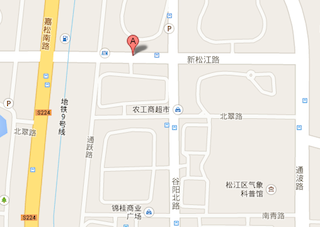
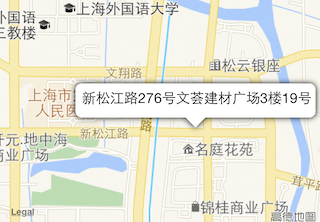
updated map.

diff --git a/GraceRoad/Views/GRIntroductView.m b/GraceRoad/Views/GRIntroductView.m
@@ -6,6 +6,8 @@
 //  Copyright (c) 2013年 Mac003. All rights reserved.
 //
 
+#define GRHasMap 0
+
 #import "GRIntroductView.h"
 #import "GRMapAnnotation.h"
 #import "Reachability.h"
@@ -14,10 +16,13 @@
 #import "GRDataService.h"
 #import "GRViewService.h"
 
+#if GRHasMap
+#import "CallOutAnnotationVifew.h"
+#import "JingDianMapCell.h"
+#endif
+
 #import <MessageUI/MessageUI.h>
 #import <MapKit/MapKit.h>
-
-#define GRHasMap 0
 
 @interface GRIntroductView ()<UITableViewDataSource, UITableViewDelegate, MKMapViewDelegate>
 {
@@ -76,7 +81,7 @@
         rect.origin.x = 0;
         rect.origin.y = 0;
         rect.size.width = frame.size.width;
-        rect.size.height = 227;
+        rect.size.height = 222;
         
         _placeHolderImageView = [[UIImageView alloc] initWithFrame: rect];
         [_placeHolderImageView setImage: [UIImage imageNamed: @"GRMapPlaceHolder"]];
@@ -136,7 +141,7 @@
         _annotation = [[GRMapAnnotation alloc] init];
         
         [_annotation setCoordinate: coordinate];
-        [_annotation setTitle: @"新松江路276号文荟建材广场"];
+        [_annotation setTitle: @"新松江路276号文荟建材广场3楼19号"];
     }
     
     [_mapView addAnnotation: _annotation];
@@ -214,7 +219,7 @@ viewForHeaderInSection: (NSInteger)section
     {
         case 0:
         {
-            return 4;
+            return 5;
         }
         case 1:
         {
@@ -258,10 +263,15 @@ viewForHeaderInSection: (NSInteger)section
                 }
                 case 2:
                 {
-                    [[cell textLabel] setText: @"第三场礼拜    13:30-15:00"];
+                    [[cell textLabel] setText: @"第三场礼拜    11:00-12:00（韩语）"];
                     break;
                 }
                 case 3:
+                {
+                    [[cell textLabel] setText: @"青年礼拜        13:30-15:00"];
+                    break;
+                }
+                case 4:
                 {
                     [[cell textLabel] setText: @"成人主日学    11:00-12:00"];
                     break;
@@ -324,7 +334,7 @@ heightForRowAtIndexPath: (NSIndexPath *)indexPath
         }
         case 2:
         {
-            return 240;
+            return [_placeHolderImageView bounds].size.height;
         }
         default:
         {
@@ -369,17 +379,32 @@ didSelectRowAtIndexPath: (NSIndexPath *)indexPath
     }
 }
 
+#if GRHasMap
 - (MKAnnotationView *)mapView: (MKMapView *)mapView
             viewForAnnotation: (id <MKAnnotation>)annotation
 {
-    MKPinAnnotationView *annView=[[[MKPinAnnotationView alloc] initWithAnnotation: annotation
-                                                                  reuseIdentifier: @"pin"] autorelease];
-    annView.pinColor = MKPinAnnotationColorGreen;
-    [annView setEnabled:YES];
-    [annView setCanShowCallout:YES];
-    
-    return annView;
+    CallOutAnnotationVifew *annotationView = (CallOutAnnotationVifew *)[mapView dequeueReusableAnnotationViewWithIdentifier:@"CalloutView"];
+    if (!annotationView)
+    {
+        annotationView = [[[CallOutAnnotationVifew alloc] initWithAnnotation:annotation reuseIdentifier:@"CalloutView"] autorelease];
+        JingDianMapCell  *cell = [[[NSBundle mainBundle] loadNibNamed:@"JingDianMapCell" owner:self options:nil] objectAtIndex:0];
+        [annotationView.contentView addSubview:cell];
+        
+    }
+    return annotationView;
+
+//    MKPinAnnotationView *annView=[[[MKPinAnnotationView alloc] initWithAnnotation: annotation
+//                                                                  reuseIdentifier: @"pin"] autorelease];
+//    annView.pinColor = MKPinAnnotationColorGreen;
+//
+//    [annView setBackgroundColor: [UIColor whiteColor]];
+//    [annView setEnabled:YES];
+//    [annView setCanShowCallout:YES];
+//    
+//    return annView;
 
 }
+
+#endif
 
 @end

diff --git a/Library/Map/CallOutAnnotationVifew.m b/Library/Map/CallOutAnnotationVifew.m
@@ -1,0 +1,90 @@
+//
+//  CallOutAnnotationVifew.m
+//  IYLM
+//
+//  Created by Jian-Ye on 12-11-8.
+//  Copyright (c) 2012年 Jian-Ye. All rights reserved.
+//
+
+#import "CallOutAnnotationVifew.h"
+#import <QuartzCore/QuartzCore.h>
+
+
+#define  Arror_height 10
+
+@interface CallOutAnnotationVifew ()
+
+-(void)drawInContext:(CGContextRef)context;
+- (void)getDrawPath:(CGContextRef)context;
+@end
+
+@implementation CallOutAnnotationVifew
+@synthesize contentView;
+
+- (void)dealloc
+{
+    self.contentView = nil;
+    [super dealloc];
+}
+
+- (id)initWithAnnotation:(id<MKAnnotation>)annotation reuseIdentifier:(NSString *)reuseIdentifier
+{
+    self = [super initWithAnnotation:annotation reuseIdentifier:reuseIdentifier];
+    if (self) {
+        self.backgroundColor = [UIColor clearColor];
+        self.canShowCallout = YES;
+        self.centerOffset = CGPointMake(0, -15);
+        self.frame = CGRectMake(0, 0, 240, 44);
+        
+        UIView *_contentView = [[[UIView alloc] initWithFrame:CGRectMake(0, 0, self.frame.size.width, self.frame.size.height - Arror_height)] autorelease];
+        _contentView.backgroundColor   = [UIColor clearColor];
+        [self addSubview:_contentView];
+        self.contentView = _contentView;
+        
+    }
+    return self;
+}
+
+-(void)drawInContext:(CGContextRef)context
+{
+	
+   CGContextSetLineWidth(context, 2.0);
+    CGContextSetFillColorWithColor(context, [UIColor whiteColor].CGColor);
+   
+    [self getDrawPath:context];
+    CGContextFillPath(context);
+    
+    
+}
+- (void)getDrawPath:(CGContextRef)context
+{
+    CGRect rrect = self.bounds;
+	CGFloat radius = 6.0;
+    
+	CGFloat minx = CGRectGetMinX(rrect),
+    midx = CGRectGetMidX(rrect), 
+    maxx = CGRectGetMaxX(rrect);
+	CGFloat miny = CGRectGetMinY(rrect), 
+    // midy = CGRectGetMidY(rrect), 
+    maxy = CGRectGetMaxY(rrect)-Arror_height;
+    CGContextMoveToPoint(context, midx+Arror_height, maxy);
+    CGContextAddLineToPoint(context,midx, maxy+Arror_height);
+    CGContextAddLineToPoint(context,midx-Arror_height, maxy);
+    
+    CGContextAddArcToPoint(context, minx, maxy, minx, miny, radius);
+    CGContextAddArcToPoint(context, minx, minx, maxx, miny, radius);
+    CGContextAddArcToPoint(context, maxx, miny, maxx, maxx, radius);
+    CGContextAddArcToPoint(context, maxx, maxy, midx, maxy, radius);
+    CGContextClosePath(context);
+}
+
+- (void)drawRect:(CGRect)rect
+{
+	[self drawInContext:UIGraphicsGetCurrentContext()];
+    
+    self.layer.shadowColor = [[UIColor blackColor] CGColor];
+    self.layer.shadowOpacity = 1.0;
+  //  self.layer.shadowOffset = CGSizeMake(-5.0f, 5.0f);
+    self.layer.shadowOffset = CGSizeMake(0.0f, 0.0f);
+}
+@end

diff --git a/Library/Map/CallOutAnnotationVifew.h b/Library/Map/CallOutAnnotationVifew.h
@@ -1,0 +1,13 @@
+//
+//  CallOutAnnotationVifew.h
+//  IYLM
+//
+//  Created by Jian-Ye on 12-11-8.
+//  Copyright (c) 2012年 Jian-Ye. All rights reserved.
+//
+#import <MapKit/MapKit.h>
+
+@interface CallOutAnnotationVifew : MKAnnotationView 
+
+@property (nonatomic,retain)UIView *contentView;
+@end

diff --git a/Library/Map/JingDianMapCell.h b/Library/Map/JingDianMapCell.h
@@ -1,0 +1,13 @@
+//
+//  JingDianMapCell.h
+//  IYLM
+//
+//  Created by Jian-Ye on 12-11-8.
+//  Copyright (c) 2012年 Jian-Ye. All rights reserved.
+//
+
+#import <UIKit/UIKit.h>
+
+@interface JingDianMapCell : UIView
+
+@end

diff --git a/Library/Map/JingDianMapCell.m b/Library/Map/JingDianMapCell.m
@@ -1,0 +1,13 @@
+//
+//  JingDianMapCell.m
+//  IYLM
+//
+//  Created by Jian-Ye on 12-11-8.
+//  Copyright (c) 2012年 Jian-Ye. All rights reserved.
+//
+
+#import "JingDianMapCell.h"
+
+@implementation JingDianMapCell
+
+@end
